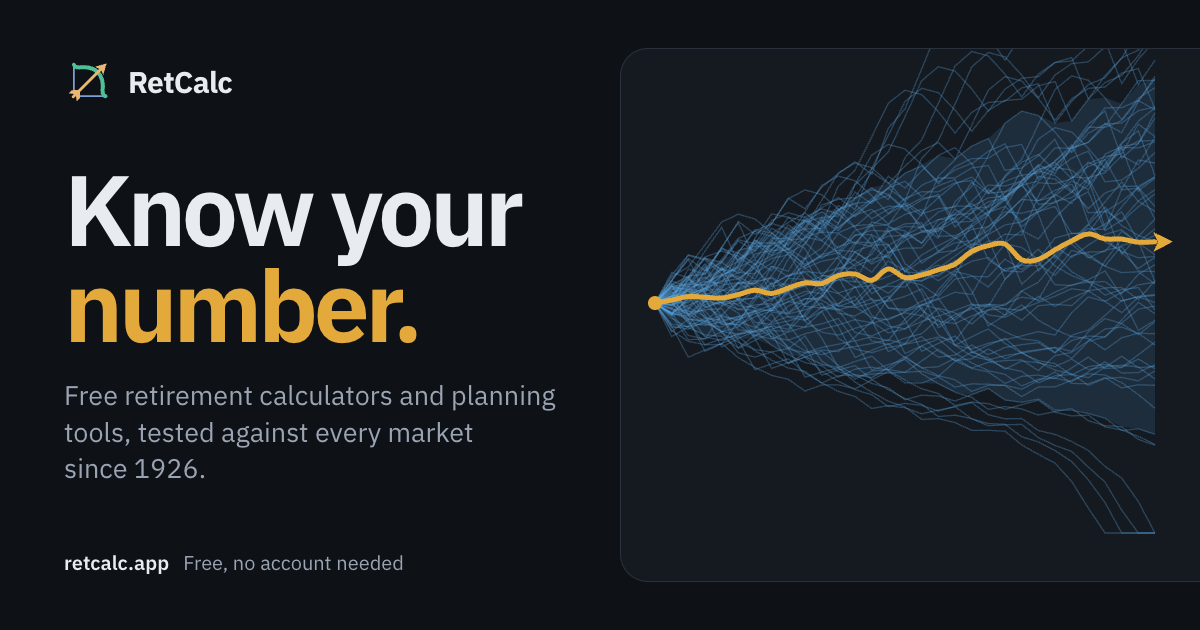
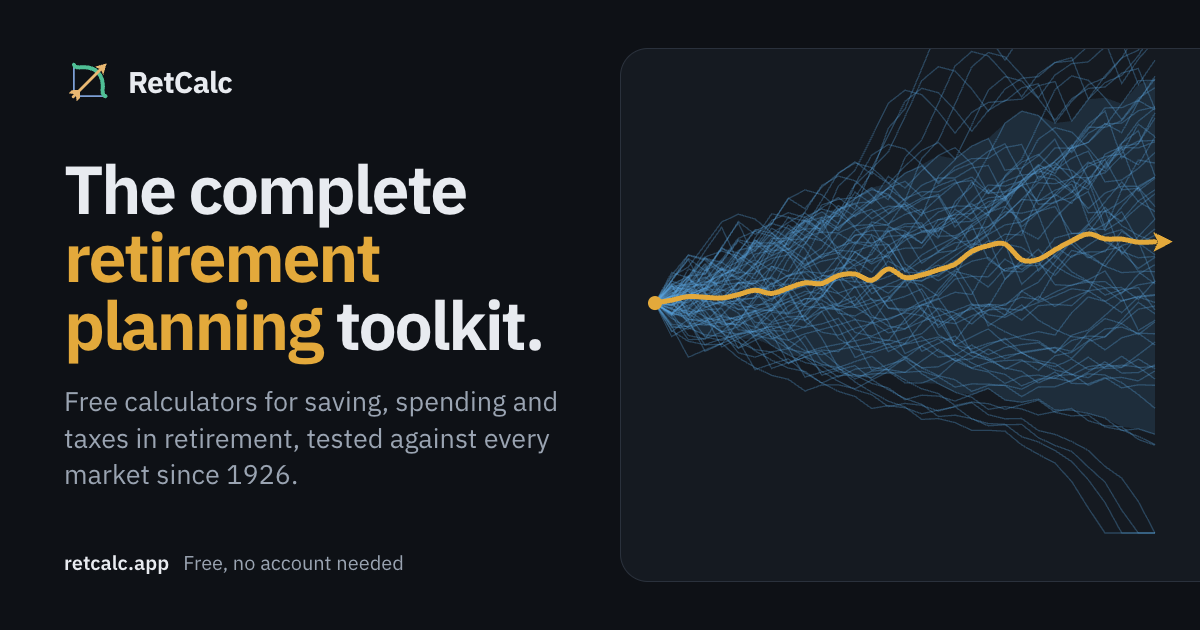
Tagline: The complete retirement planning toolkit
Replaces "Know your number." on the homepage, footer, site link-preview
card and printed summary; the share image keeps just the address. The
homepage lede now lists what the tools cover.

Changed region(s): [[0.0308, 0.2413, 0.4625, 0.7841]]

diff --git a/web/components/home/Home.tsx b/web/components/home/Home.tsx
@@ -30,10 +30,10 @@ export function Home({ data }: { data: HomeData }) {
   return (
     <div className="hm" ref={root}>
       <section className="hm-hero" aria-labelledby="hmTitle">
-        <h1 className="hm-display" id="hmTitle" data-rv="">Know your<br /><em>number.</em></h1>
+        <h1 className="hm-display" id="hmTitle" data-rv="">The complete <em>retirement planning</em> toolkit.</h1>
         <div>
           <p className="hm-lede" data-rv="" style={{ "--d": 1 } as React.CSSProperties}>
-            Retirement planning tools that run in your browser and check your plan against <b>every market since 1926</b>. Free, and you don&apos;t need an account.
+            Calculators for saving, withdrawals, taxes, Roth conversions, healthcare and Social Security, each checked against <b>every market since 1926</b>. Free, and you don&apos;t need an account.
           </p>
           <div className="hm-btns" data-rv="" style={{ "--d": 2 } as React.CSSProperties}>
             <Link href="/calculator" className={buttonVariants({ size: "xl" })}>Open the Calculator<ArrowRightIcon data-icon="inline-end" aria-hidden="true" /></Link>

diff --git a/web/lib/cards.ts b/web/lib/cards.ts
@@ -20,8 +20,8 @@ export interface Card {
 const SINCE = "against every retirement since 1926.";
 
 export const CARDS: Partial<Record<Slug, Card>> = {
-  home: { title: "Know your number.", art: "fan",
-    text: "Free retirement calculators and planning tools, tested against every market since 1926." },
+  home: { title: "The complete retirement planning toolkit.", art: "fan",
+    text: "Free calculators for saving, spending and taxes in retirement, tested against every market since 1926." },
   calculator: { title: "Retirement Calculator", art: "growth",
     text: "See how much you'll have saved by the time you retire." },
   advanced: { title: "Advanced Retirement Calculator", art: "accounts",
@@ -85,5 +85,5 @@ export const CARDS: Partial<Record<Slug, Card>> = {
 
 /** The card's words as one line, for the image's alt text. */
 export function cardAlt(c: Card): string {
-  return (c.title.startsWith("Know") ? "RetCalc: " : "") + c.title.replace(/\.$/, "") + ". " + c.text;
+  return (c === CARDS.home ? "RetCalc: " : "") + c.title.replace(/\.$/, "") + ". " + c.text;
 }

diff --git a/web/components/shell/share.ts b/web/components/shell/share.ts
@@ -179,7 +179,7 @@ export function cardSVG(d: CardData): string {
     chartBlock + rowSvg + verdict +
     '<line x1="90" y1="' + (footY - 20) + '" x2="990" y2="' + (footY - 20) + '" stroke="' + line + '" stroke-width="1"/>' +
     '<text x="90" y="' + footY + '" font-family="' + sans + '" font-size="20" fill="' + dim + '">Projections, not predictions. Not financial advice.</text>' +
-    '<text x="990" y="' + (footY - 1) + '" font-family="' + sans + '" font-size="22" text-anchor="end"><tspan fill="' + gold + '">Know your number.</tspan><tspan dx="12" font-weight="600" fill="' + jade + '">retcalc.app</tspan></text>' +
+    '<text x="990" y="' + (footY - 1) + '" font-family="' + sans + '" font-size="22" text-anchor="end"><tspan font-weight="600" fill="' + jade + '">retcalc.app</tspan></text>' +
     "</svg>";
 }
 

diff --git a/web/components/og/OgCard.tsx b/web/components/og/OgCard.tsx
@@ -11,14 +11,14 @@ import { Art } from "./art";
 import s from "./og.module.css";
 
 export function OgCard({ card, data }: { card: Card; data: HomeData }) {
-  const home = card.title.startsWith("Know your");
+  const home = card.art === "fan" && card.title.startsWith("The complete");
   return (
     <div className={s.card} data-og-card="">
       <div className={s.copy}>
         <div className={s.brand}><Brandmark /><span>RetCalc</span></div>
         <div className={s.mid}>
           {home
-            ? <h1 className={s.display}>Know your <em>number.</em></h1>
+            ? <h1 className={s.display}>The complete <em>retirement planning</em> toolkit.</h1>
             : <h1 className={s.title}>{card.title}</h1>}
           <p className={s.text}>{card.text}</p>
         </div>

diff --git a/web/components/og/og.module.css b/web/components/og/og.module.css
@@ -8,7 +8,7 @@
 .brand :global(.brandmark){width:50px;height:50px}
 .mid{flex:1;display:flex;flex-direction:column;justify-content:center;padding-bottom:6px}
 .title{margin:0;font-size:60px;line-height:1.02;font-weight:650;letter-spacing:-.032em;text-wrap:balance}
-.display{margin:0;font-size:100px;line-height:.96;font-weight:650;letter-spacing:-.045em}
+.display{margin:0;font-size:68px;line-height:1;font-weight:650;letter-spacing:-.035em;text-wrap:balance}
 .display em{font-style:normal;color:var(--ds-amber)}
 .text{margin:24px 0 0;font-size:27px;line-height:1.36;color:var(--ds-muted);text-wrap:pretty}
 .foot{display:flex;align-items:baseline;gap:14px;font-size:20px;color:var(--ds-muted)}

diff --git a/web/styles/16-home.css b/web/styles/16-home.css
@@ -23,7 +23,7 @@
 /* hero */
 .hm-hero{display:grid;grid-template-columns:1.3fr 1fr;gap:24px 64px;align-items:end;
   padding:clamp(40px,7vw,96px) 0 clamp(32px,4vw,56px)}
-.hm-display{font-size:clamp(52px,8.4vw,112px);line-height:.94;letter-spacing:-.045em;font-weight:600;
+.hm-display{font-size:clamp(44px,6.2vw,88px);line-height:.98;letter-spacing:-.045em;font-weight:600;
   color:var(--ds-text);text-wrap:balance}
 .hm-display em{font-style:normal;color:var(--ds-amber)}
 .hm-lede{font-size:clamp(18px,1.6vw,21px);line-height:1.5;color:var(--ds-muted);max-width:40ch;text-wrap:pretty}

diff --git a/web/components/shell/Footer.tsx b/web/components/shell/Footer.tsx
@@ -26,7 +26,7 @@ export function Footer() {
       <div className="sitefoot-in">
         <div className="sitefoot-brand">
           <Brandmark />
-          <div><b>RetCalc</b><span>Know your number.</span></div>
+          <div><b>RetCalc</b><span>The complete retirement planning toolkit.</span></div>
         </div>
         <div className="sitefoot-txt">
           <p>An educational tool, not financial or tax advice. Past returns don&apos;t predict future ones, and tax figures are estimates.{" "}

diff --git a/web/styles/07-print-sheet.css b/web/styles/07-print-sheet.css
@@ -79,7 +79,7 @@
      text on the page. */
   .sh-foot{font-size:7.5px;color:#666;line-height:1.45;border-top:1px solid #ccc;
     padding-top:5px}
-  .sh-foot::after{content:"RetCalc \00b7  retcalc.app \00b7  Know your number.";
+  .sh-foot::after{content:"RetCalc \00b7  retcalc.app \00b7  The complete retirement planning toolkit.";
     display:block;margin-top:4px;color:#9a7a3a;font-weight:600;letter-spacing:.01em}
 }
 

diff --git a/web/components/shell/Masthead.tsx b/web/components/shell/Masthead.tsx
@@ -41,7 +41,7 @@ export function BrandLink({ tagline = true }: { tagline?: boolean }) {
       <Brandmark />
       <div className="wordmark">
         <div className="brandname">RetCalc</div>
-        {tagline ? <div className="tagline">Know your number.</div> : null}
+        {tagline ? <div className="tagline">The complete retirement planning toolkit.</div> : null}
       </div>
     </Link>
   );

diff --git a/DESIGN.md b/DESIGN.md
@@ -1,6 +1,6 @@
 ---
 name: RetCalc
-description: Know your number.
+description: The complete retirement planning toolkit.
 colors:
   graphite-ground: "#0E1116"
   graphite-surface: "#151A21"
@@ -460,7 +460,7 @@ The bow and arrow is RetCalc's own sign: the logo is a bow with an arrow nocked,
 
 ## Homepage
 
-The homepage (`/`, `web/components/home/`, styles in `web/styles/16-home.css`) is the one page allowed past this system,: nothing in `16-home.css` is used by another page, and no tool inherits it. It persuades where the tools instrument, so it may use what they may not: display type up to 112px (`clamp(52px, 8.4vw, 112px)`, "Know your" over an amber "number."), the three main paths (Calculator, Guide, Drawdown Simulator) on Surface tiles tinted toward amber, Brand Jade and Brand Steel, and motion driven by the scroll. Colors are still the tokens; no new value is added.
+The homepage (`/`, `web/components/home/`, styles in `web/styles/16-home.css`) is the one page allowed past this system,: nothing in `16-home.css` is used by another page, and no tool inherits it. It persuades where the tools instrument, so it may use what they may not: display type up to 88px (`clamp(44px, 6.2vw, 88px)`: the tagline, "The complete retirement planning toolkit.", with "retirement planning" in amber), the three main paths (Calculator, Guide, Drawdown Simulator) on Surface tiles tinted toward amber, Brand Jade and Brand Steel, and motion driven by the scroll. Colors are still the tokens; no new value is added.
 
 ### Structure
 - **An age line.** The tools hang off a vertical line at the age you'd reach for them: the Calculator and Guide in your 30s, FIRE in your 40s, the Bridge at 52 to 59½, Healthcare until 65, the Optimizer at 62 to 70, Drawdown at 65, Roth and RMDs at 73. The everyday tools (Income Tax, Rent vs. Buy, Mortgage, Budget, then a list) follow in a grid.

diff --git a/PRODUCT.md b/PRODUCT.md
@@ -20,7 +20,7 @@ Both are served by the same pages: simple on the first screen, depth on demand.
 
 ## Product Purpose
 
-RetCalc (retcalc.app) is a free, privacy-first retirement and financial planning suite built around a compound interest calculator, with a guide and 13 connected planning tools. Tagline: "Know your number."
+RetCalc (retcalc.app) is a free, privacy-first retirement and financial planning suite built around a compound interest calculator, with a guide and 13 connected planning tools. Tagline: "The complete retirement planning toolkit." (replaced "Know your number." on 2026-10-13)
 
 It exists to give people a trustworthy number about their own retirement without handing over their data, paying, or having to sign up. Success is a visitor who leaves knowing their number, understanding roughly why, and able to go deeper when they want to.
 
@@ -61,7 +61,7 @@ Everything runs in the browser, with no payments. An account is optional (since 
 
 ## Brand Commitments
 
-- **Name and tagline:** the name "RetCalc" and the tagline "Know your number."
+- **Name and tagline:** the name "RetCalc" and the tagline "The complete retirement planning toolkit."
 - **Logo:** kept exactly as it is, in shape and in its gold, jade and steel.
 - **Bow-and-arrow motif:** the Guide's progress bar and the Plan Optimizer's loading bar are brand elements and stay. They are not gamification.
 - **Statements:**
